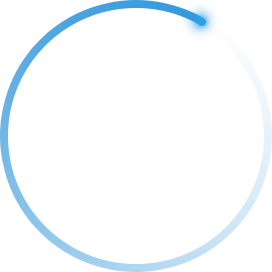
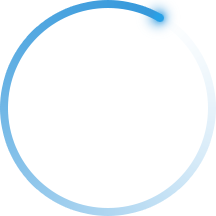
修改loader图片大小。

diff --git a/css/style.css b/css/style.css
@@ -596,8 +596,8 @@ body {
 }
 .loader {
 	position: relative;
-	width: 272px;
-	height: 272px;
+	width: 216px;
+	height: 216px;
 	margin: auto;
 	margin-top: 1em;
 }
@@ -614,8 +614,8 @@ body {
 	position: absolute;
 	top: 0;
 	left: 0;
-	width: 272px;
-	height: 272px;
+	width: 216px;
+	height: 216px;
 	background: url(../Display/images/loader.png) no-repeat;
 	
 	-webkit-animation: loader 2s linear 0s infinite;
